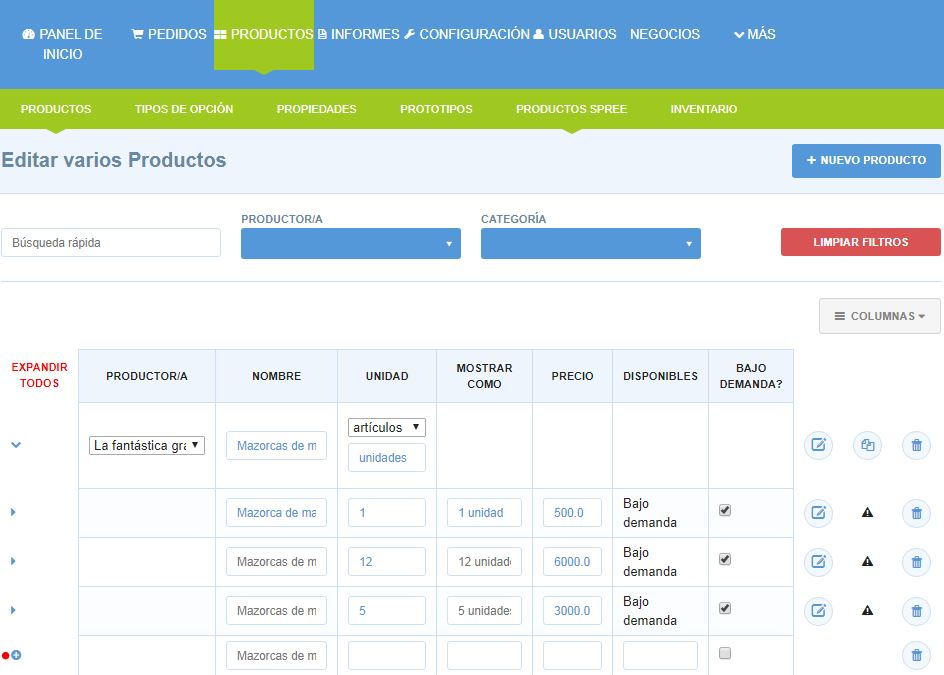
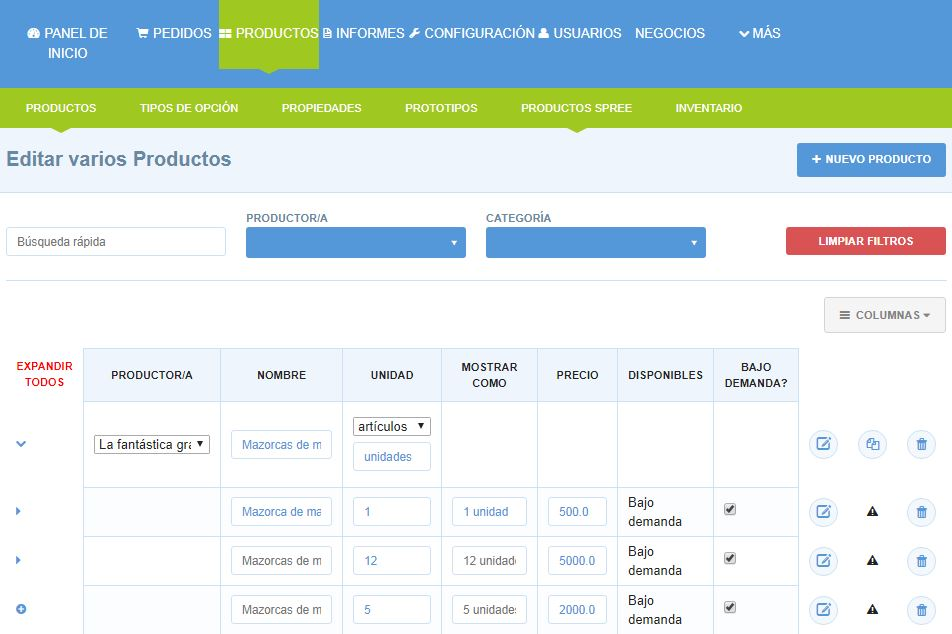
Updates product-variants.md
Auto commit by GitBook Editor

diff --git a/product-variants.md b/product-variants.md
@@ -2,7 +2,7 @@
 
 Si está configurando dos o más productos que son muy similares, pero solo varían por ejemplo en precio, tamaño o sabor, lo mejor sería crear una 'variante' para ese producto, en lugar de crear productos múltiples y separados. Esto hará que el listado sea más claro para los clientes y evitará que su tienda se sature.
 
-Usando de ejemplo "Mazorcas de maíz", imaginemos que desea vender mazorcas de maíz individuales por 500 Gs. cada una, o 5 mazorcas de maíz por el precio con descuento de 2.000 Gs. Cada uno de estos productos será una variante del producto. A continuación, se encuentra la lista del producto final en la tienda online de la Red Ágora. La siguiente sección describirá los pasos necesarios para crear esta lista.
+Usando de ejemplo "Mazorcas de maíz", imaginemos que desea vender mazorcas de maíz individuales por 500 Gs. cada una, o 5 mazorcas de maíz por el precio con descuento de 3.000 Gs. Cada uno de estos productos será una variante del producto. A continuación, se encuentra la lista del producto final en la tienda online de la Red Ágora. La siguiente sección describirá los pasos necesarios para crear esta lista.
 
 ![](/assets/producto_tienda.JPG)
 
